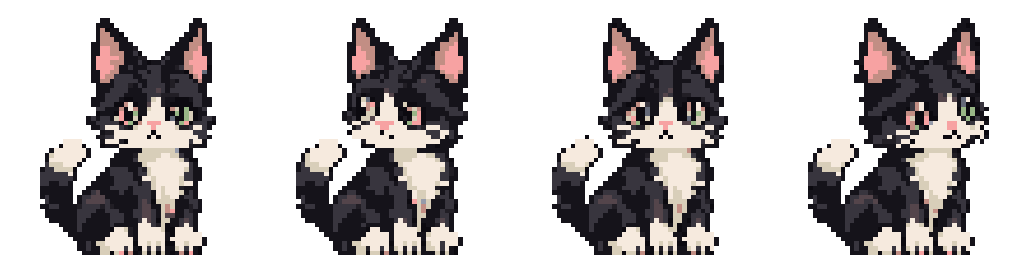
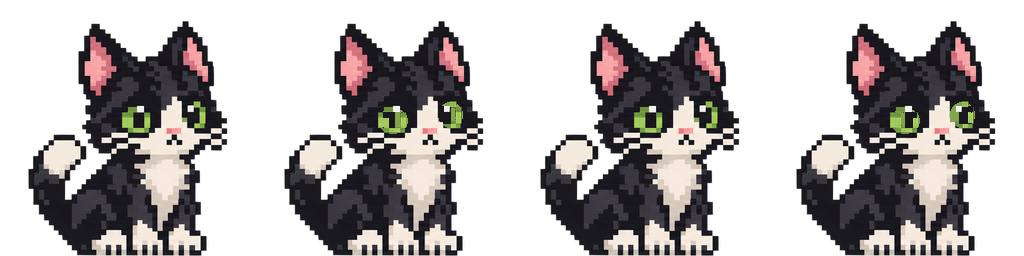
Gato novo com a cabeça e os olhos verdes do original, e CHANGELOG
Os quadros de rabo e de notebook usam a cabeça do gato parado, no mesmo
tamanho. O olhar em volta mexe só as pupilas do quadro original.

diff --git a/CHANGELOG.md b/CHANGELOG.md
@@ -7,6 +7,32 @@ Versioning follows [Semantic Versioning](https://semver.org/).
 
 ## [Unreleased]
 
+Visual novo no app inteiro ("vidro na borda"), resumo do OpenBot por bots, troca de conta sugerida e um gato com mais vida.
+
+### Added
+
+- **Dock na borda:** a pill fica encostada na borda da tela, com um traço de tempo no anel e nas barras mostrando quanto falta para o reset. O contorno é igual nos quatro lados.
+- **Painel como janela:** o painel aberto ganha barra lateral com Uso, Custos, Prompts, Contas e Configurações. Ele desliza da borda ao abrir e ao fechar, e cada tela entra com um movimento curto. Tudo isso desliga com "menos movimento".
+- **Página de cada provedor:** blocos por janela de cota, custo de hoje, atividade recente e gráfico de 30 dias.
+- **Abas de provedor:** cada aba tem uma barrinha de uso. A pill mostra o gasto de hoje, e uma frase única resume o ritmo ("Ritmo: 42% abaixo · dura até o reset").
+- **Mapa de atividade em Custos:** o dock guarda o total de cada dia, então o mapa passa dos ~30 dias que os logs guardam e cresce com o tempo.
+- **Avisos de cota em 75, 90 e 95%:** cada nível tem bolinha, limite próprio e escolha de som.
+- **Contas na barra lateral:** cada conta tem uma bolinha de estado (conectada, desatualizada, conta errada, sem acesso ou não conectada).
+- **OpenBot por bots:** as contas do OpenBot viram um item só. O resumo mostra quem está trabalhando, com motor, modelo e conta de cada bot, além das contas paradas e dos motores instalados. O banco do OpenBot é aberto somente para leitura.
+- **Troca de conta sugerida (Windows):** quando a conta do Antigravity em uso chega a 15% ou menos no modelo usado e outra tem 50% ou mais, o dock sugere a troca, e "Ir para" traz a janela dela para a frente.
+- **Gato mais vivo:** sua quando uma cota passa de 90% e dá pulinhos quando uma janela renova. Tecla num notebook enquanto há agentes trabalhando. Depois que eles param, fica acordado por 3 minutos, olhando em volta e balançando o rabo de vez em quando, e então dorme com "Z". Os quadros novos usam a cabeça do gato original, com os mesmos olhos verdes e o mesmo tamanho.
+- **Balões em pixel art:** o "?" e o "!" do mascote viraram balões desenhados no mesmo estilo do gato.
+- **Modo demonstração:** `?demo` abre o app no navegador com dados realistas, e `?demo&audit` roda uma checagem automática de interface.
+
+### Fixed
+
+- **Conta errada no Antigravity:** o dock compara o e-mail ao vivo com o `.conta_vinculada` de cada conta e avisa na dica, nas contas e na barra lateral quando não batem.
+- **Slot do Antigravity:** a pasta da conta decide o slot, não o e-mail lembrado.
+- **Antigravity 2.34:** o token do servidor local passa a vir de `daemon/hub_*.json`, casado pelo processo.
+- **Dicas atrás do dock:** as dicas agora são desenhadas dentro do app. A dica nativa do Windows abria atrás da pill.
+- **Dica que não fechava:** a dica do provedor fecha ao passar no símbolo, no "Hoje", na seta ou no mascote.
+- **Canto cortado:** o brilho só no topo parecia cortado nos cantos; virou um contorno uniforme.
+
 ## [0.8.0-beta.3] - 2026-11-12
 
 Terceira versão de teste da 0.8.0, com Windows, macOS (Apple Silicon) e Linux (AppImage) no mesmo pré-release.
